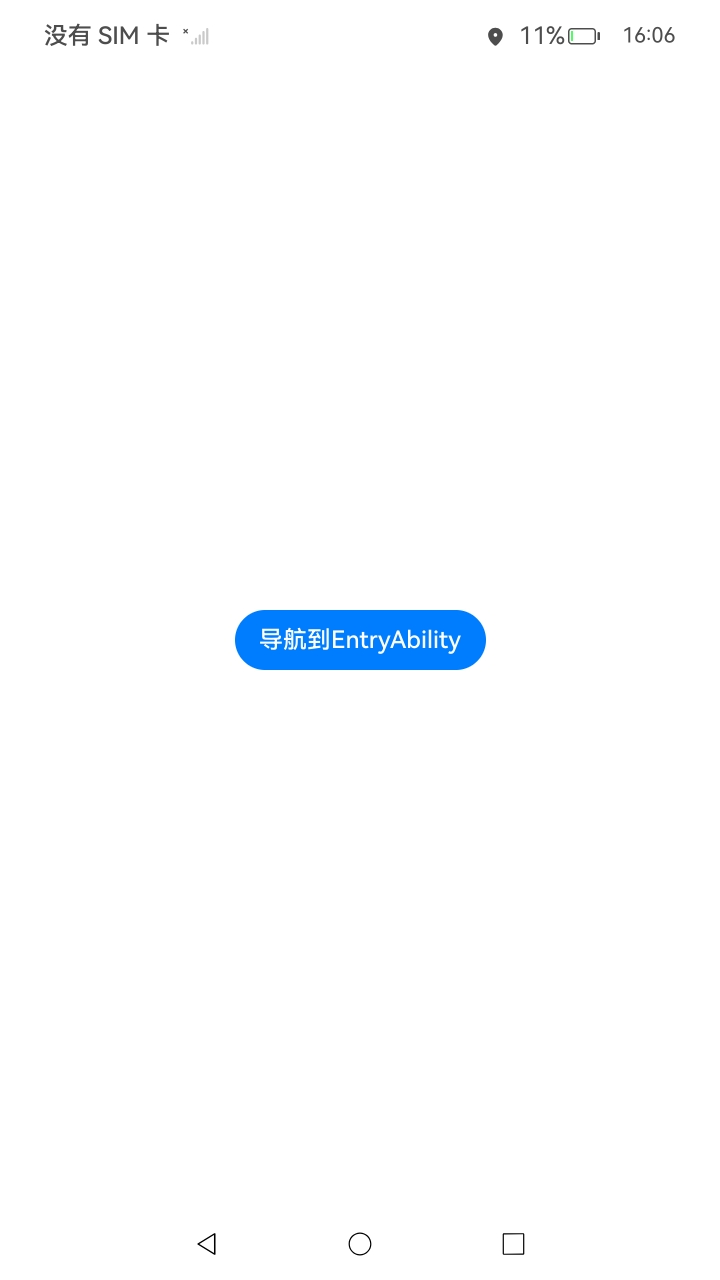
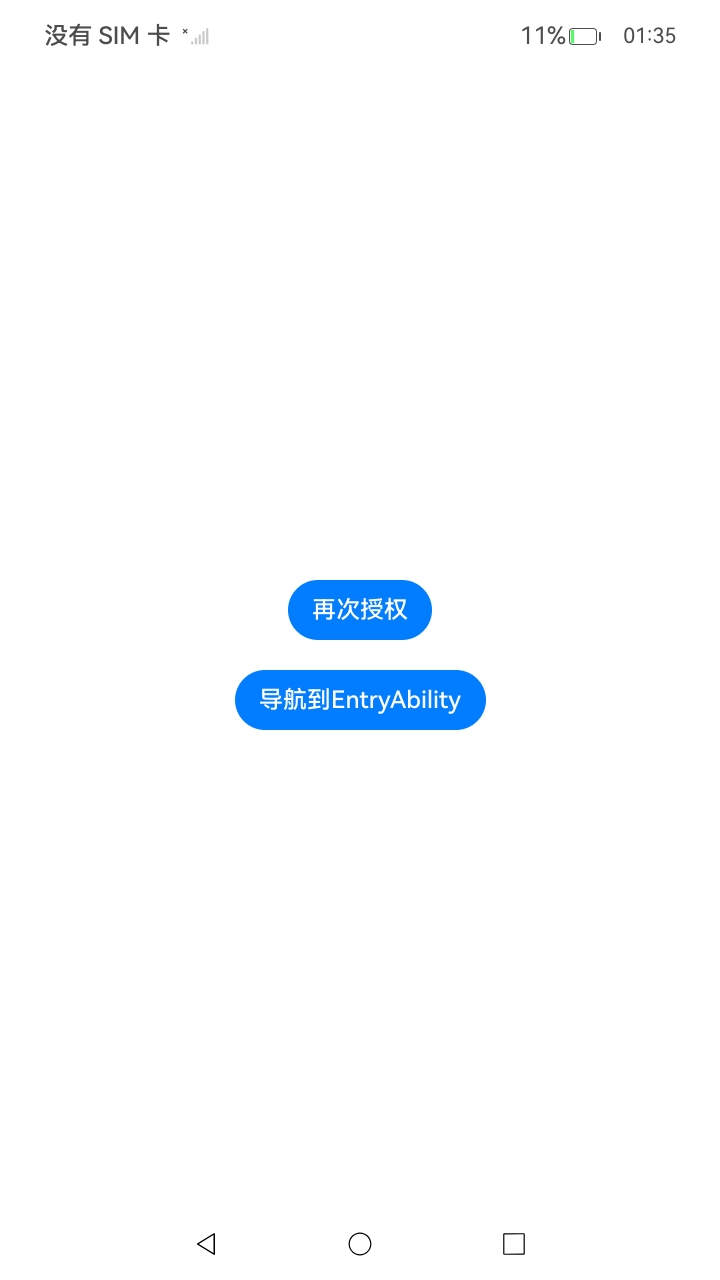
sample历史遗留问题修改20251028

diff --git a/code/DocsSample/Security/RequestUserAuthorization/README.md b/code/DocsSample/Security/RequestUserAuthorization/README.md
@@ -16,7 +16,7 @@
 
 2. 点击**在Page中申请权限**按钮，跳到Page页面，出现授权弹窗，点击**取消**按钮，返回主页点击**检测权限**按钮，出现提示信息“权限未申请”。
 
-3. 点击**在UIAbility中申请权限**按钮，跳到**secondAbility**页面，出现授权弹窗，点击**取消**按钮，出现二次授权弹窗，选择**仅使用期间允许**选项，点击**导航到EntryAbility**按钮返回主页，点击**检测权限**按钮，出现提示信息“未申请精确定位权限”。
+3. 点击**在UIAbility中申请权限**按钮，跳到**secondAbility**页面，出现授权弹窗，点击**取消**按钮，点击**再次授权**按钮，出现二次授权弹窗，选择**仅使用期间允许**选项，点击**导航到EntryAbility**按钮返回主页，点击**检测权限**按钮，出现提示信息“未申请精确定位权限”。
 
 4. 再次点击**在UIAbility中申请权限** 按钮，跳到**secondAbility**页面，出现授权弹窗，点击**仅使用期间允许**按钮，点击**导航到EntryAbility**按钮返回主页，点击**检测权限**按钮，出现提示信息“权限已申请“。
 
@@ -46,16 +46,16 @@ RequsetUserAuthorization
 * 本示例分为权限检测模块、向用户申请权限模块
   * 权限检测模块
     * 使用bundleManager接口中getBundleInfoForSelf方法获取应用程序的accessTokenID，根据accessTokenID使用abilityAccessCtrl接口中checkAccessToken方法检测权限是否被申请。
-    * 接口参考：[@ohos.abilityAccessCtrl](https://gitee.com/openharmony/docs/blob/master/zh-cn/application-dev/reference/apis-ability-kit/js-apis-abilityAccessCtrl.md)，[@ohos.bundle.bundleManager](https://gitee.com/openharmony/docs/blob/master/zh-cn/application-dev/reference/apis-ability-kit/js-apis-bundleManager.md)
+    * 接口参考：[@ohos.abilityAccessCtrl](https://gitcode.com/openharmony/docs/blob/master/zh-cn/application-dev/reference/apis-ability-kit/js-apis-abilityAccessCtrl.md)，[@ohos.bundle.bundleManager](https://gitcode.com/openharmony/docs/blob/master/zh-cn/application-dev/reference/apis-ability-kit/js-apis-bundleManager.md)
   * 向用户申请权限模块
     * 使用abilityAccessCtrl接口中requestPermissionsFromUser方法向用户申请权限，用户拒绝后使用requestPermissionOnSetting方法拉起二次授权功能。
-    * 接口参考：[@ohos.abilityAccessCtrl](https://gitee.com/openharmony/docs/blob/master/zh-cn/application-dev/reference/apis-ability-kit/js-apis-abilityAccessCtrl.md)
+    * 接口参考：[@ohos.abilityAccessCtrl](https://gitcode.com/openharmony/docs/blob/master/zh-cn/application-dev/reference/apis-ability-kit/js-apis-abilityAccessCtrl.md)
 
 ### 相关权限
 
-1. 允许应用获取设备位置信息权限：[ohos.permission.LOCATION](https://gitee.com/openharmony/docs/blob/master/zh-cn/application-dev/security/AccessToken/permissions-for-all-user.md#ohospermissionlocation)
+1. 允许应用获取设备位置信息权限：[ohos.permission.LOCATION](https://gitcode.com/openharmony/docs/blob/master/zh-cn/application-dev/security/AccessToken/permissions-for-all-user.md#ohospermissionlocation)
 
-2. 允许应用获取设备模糊位置信息：[ohos.permission.APPROXIMATELY_LOCATION](https://gitee.com/openharmony/docs/blob/master/zh-cn/application-dev/security/AccessToken/permissions-for-all-user.md#ohospermissionapproximately_location)
+2. 允许应用获取设备模糊位置信息：[ohos.permission.APPROXIMATELY_LOCATION](https://gitcode.com/openharmony/docs/blob/master/zh-cn/application-dev/security/AccessToken/permissions-for-all-user.md#ohospermissionapproximately_location)
 
 ### 依赖
 
@@ -76,6 +76,6 @@ RequsetUserAuthorization
 git init
 git config core.sparsecheckout true
 echo code/DocsSample/Security/RequsetUserAuthorization/ > .git/info/sparse-checkout
-git remote add origin https://gitee.com/openharmony/applications_app_samples.git
+git remote add origin https://gitcode.com/openharmony/applications_app_samples.git
 git pull origin master
 ```
